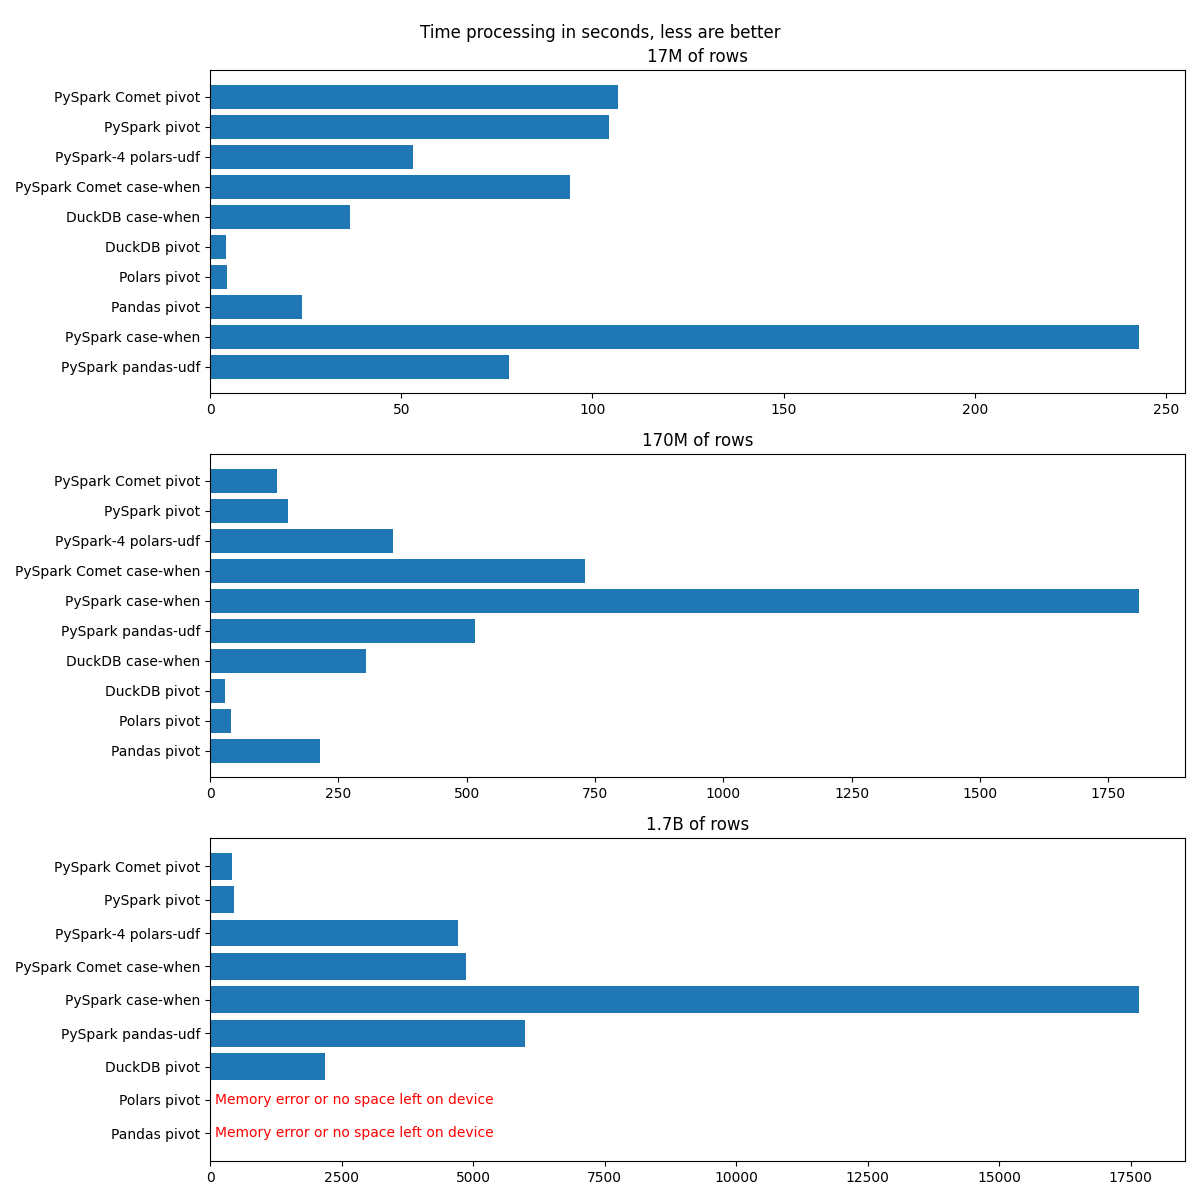
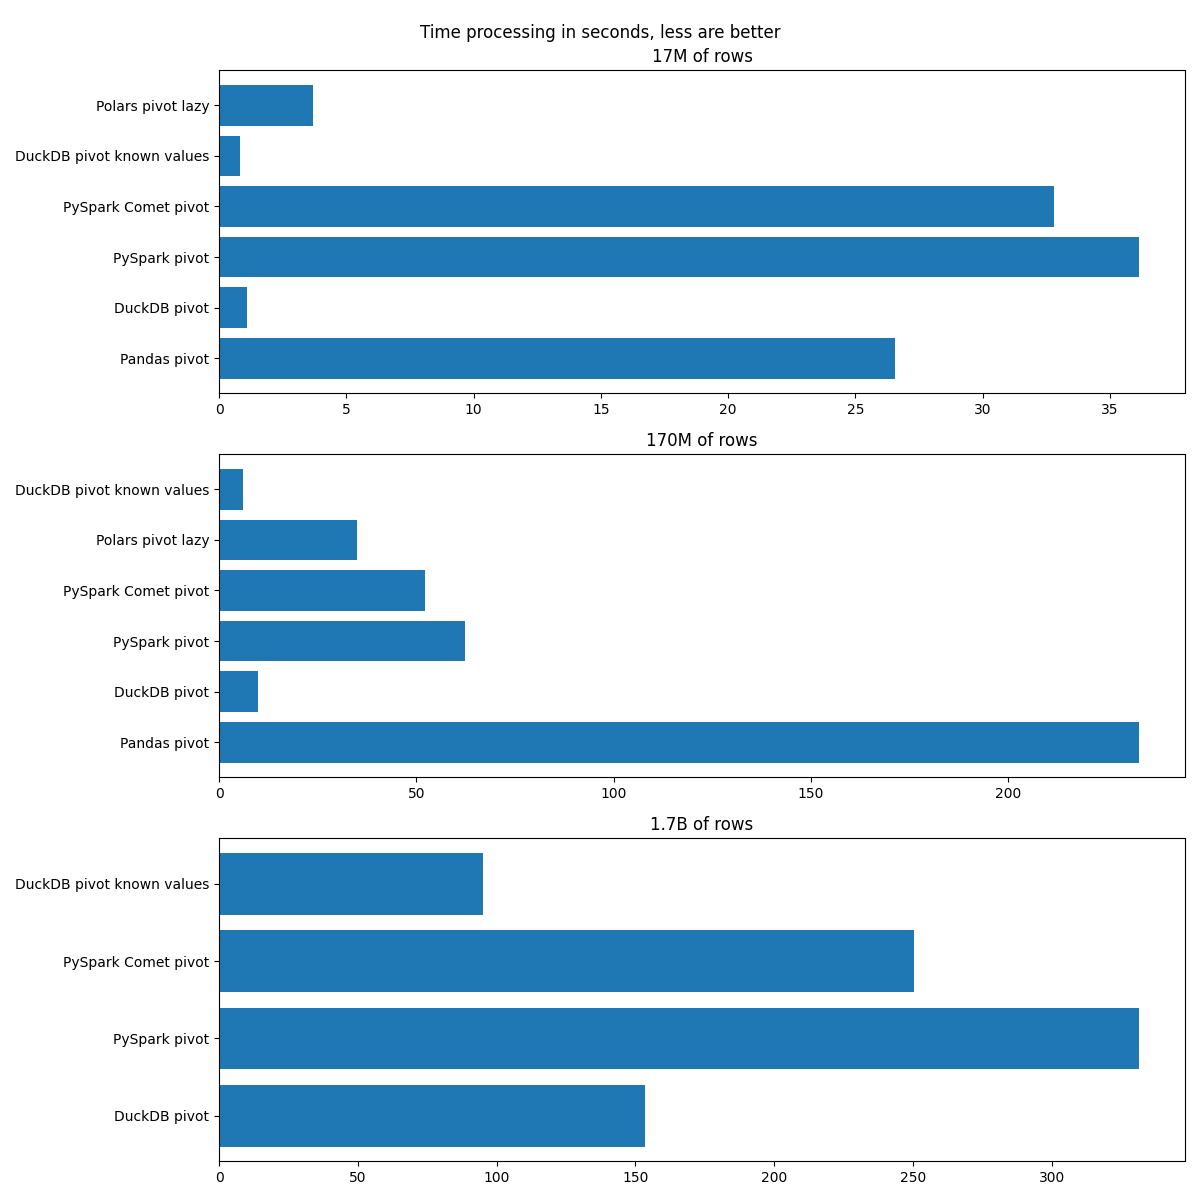
Update benchmarks with latest libs

diff --git a/docs/benchmark_results.md b/docs/benchmark_results.md
@@ -34,16 +34,12 @@ See `src/lib.rs` for details of the implementation.
 
 | Tool | Time of processing in seconds |
 | ---- | ----------------------------- |
-| PySpark pandas-udf | 78.31 |
-| PySpark case-when | 242.84 |
-| Pandas pivot | 23.91 |
-| Polars pivot | 4.54 |
-| DuckDB pivot | 4.10 |
-| DuckDB case-when | 36.59 |
-| PySpark Comet case-when | 94.06 |
-| PySpark-4 polars-udf | 53.06 |
-| PySpark pivot | 104.21 |
-| PySpark Comet pivot | 106.69 |
+| Pandas pivot | 26.55 |
+| DuckDB pivot | 1.10 |
+| PySpark pivot | 36.14 |
+| PySpark Comet pivot | 32.80 |
+| DuckDB pivot known values | 0.81 |
+| Polars pivot lazy | 3.68 |
 
 
 ## Small Dataset
@@ -56,16 +52,12 @@ See `src/lib.rs` for details of the implementation.
 
 | Tool | Time of processing in seconds |
 | ---- | ----------------------------- |
-| Pandas pivot | 214.67 |
-| Polars pivot | 41.20 |
-| DuckDB pivot | 28.60 |
-| DuckDB case-when | 304.52 |
-| PySpark pandas-udf | 516.38 |
-| PySpark case-when | 1808.99 |
-| PySpark Comet case-when | 729.75 |
-| PySpark-4 polars-udf | 356.19 |
-| PySpark pivot | 151.60 |
-| PySpark Comet pivot | 131.29 |
+| Pandas pivot | 233.18 |
+| DuckDB pivot | 9.87 |
+| PySpark pivot | 62.25 |
+| PySpark Comet pivot | 52.20 |
+| Polars pivot lazy | 35.06 |
+| DuckDB pivot known values | 6.03 |
 
 
 
@@ -79,12 +71,7 @@ See `src/lib.rs` for details of the implementation.
 
 | Tool | Time of processing in seconds |
 | ---- | ----------------------------- |
-| Pandas pivot | OOM |
-| Polars pivot | OOM |
-| DuckDB pivot | 2181.59 |
-| PySpark pandas-udf | 5983.14 |
-| PySpark case-when | 17653.46 |
-| PySpark Comet case-when | 4873.54 |
-| PySpark-4 polars-udf | 4704.73 |
-| PySpark pivot | 455.49 |
-| PySpark Comet pivot | 412.17 |
+| DuckDB pivot | 153.57 |
+| PySpark pivot | 331.40 |
+| PySpark Comet pivot | 250.47 |
+| DuckDB pivot known values | 95.07 |
